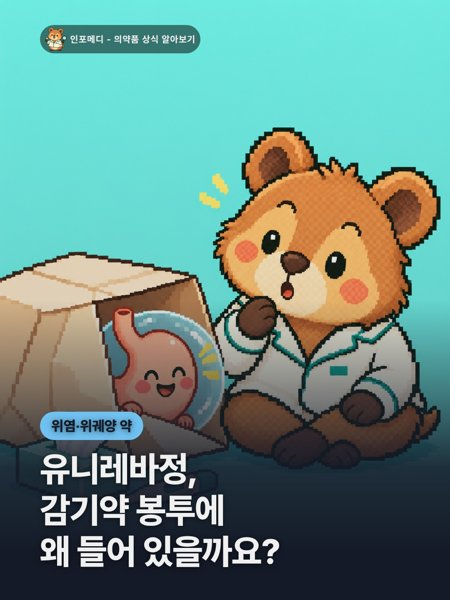
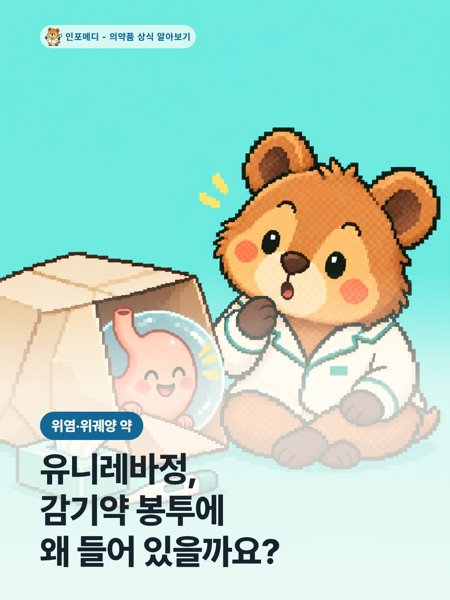
links

diff --git a/index.html b/index.html
@@ -34,7 +34,7 @@
 <section class="section">
 <h2>의약품 정보 <small id="count"></small></h2>
 <div class="grid" id="list">
-<a class="item" href="https://blog.naver.com/info_medi_/224427710538"><img src="c/유니레바정-white.jpg" alt="" loading="lazy">
+<a class="item" href="https://blog.naver.com/info_medi_/224427710538"><img src="c/유니레바정.jpg" alt="" loading="lazy">
 <span><b>유니레바정, 감기약 봉투에 왜 들어 있을까요?</b><small><time datetime="2026-10-09 07:51"></time></small></span></a>
 <a class="item" href="https://blog.naver.com/info_medi_/224426518430"><img src="c/노즈쏙.jpg" alt="" loading="lazy">
 <span><b>노즈쏙, 종합감기약과 무엇이 다를까요?</b><small><time datetime="2026-10-08 18:21"></time></small></span></a>
